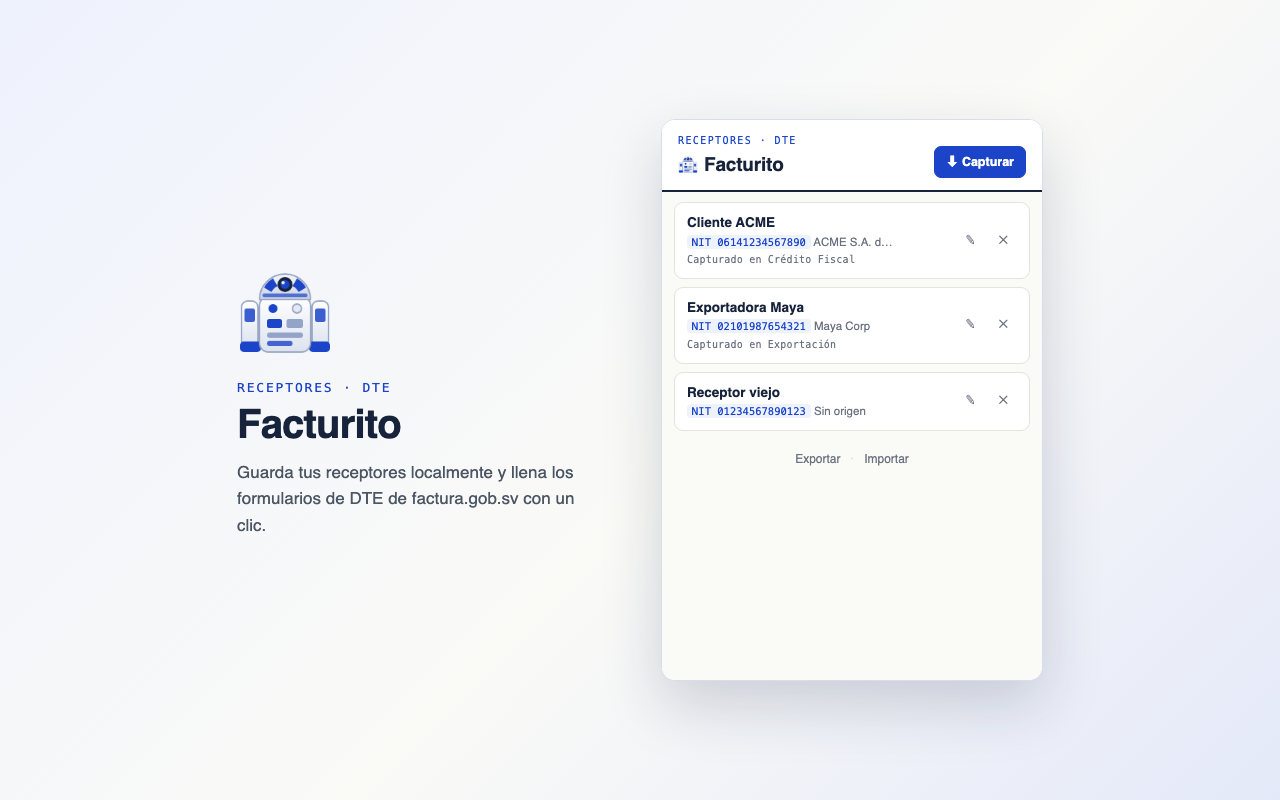
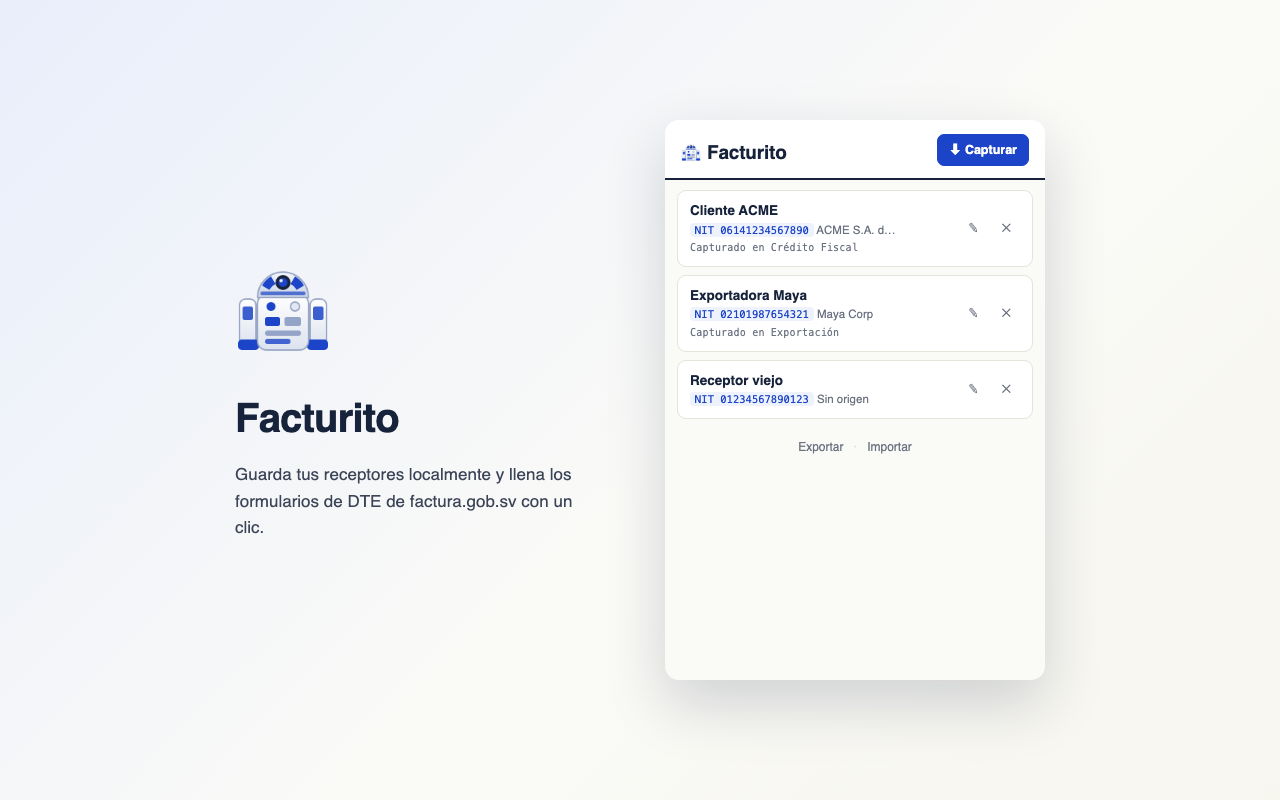
Simplify popup header and refresh store assets
Remove the eyebrow label from the popup, update the store zip and
screenshots, and add the HTML generators for the store screenshots.

diff --git a/store/screenshots/gen-02-editor.html b/store/screenshots/gen-02-editor.html
@@ -1,0 +1,103 @@
+<!DOCTYPE html>
+<!-- Generador de la captura 02-editor.png (1280x800) para la Chrome Web Store.
+     Renderizar con:
+       chrome --headless --window-size=1280,800 --screenshot=02-editor.png gen-02-editor.html -->
+<html lang="es">
+<head>
+  <meta charset="UTF-8" />
+  <link rel="stylesheet" href="../../receptor-extension/popup.css" />
+  <style>
+    html, body { width: 1280px; height: 800px; overflow: hidden; }
+    body {
+      display: flex; align-items: center; justify-content: center; gap: 80px;
+      background: linear-gradient(135deg, #e9eefb 0%, #fafaf7 55%, #f7f6ef 100%);
+    }
+    .pitch { width: 340px; }
+    .pitch img { width: 96px; height: 96px; margin-bottom: 28px; }
+    .pitch h1 { font-size: 40px; letter-spacing: -0.02em; margin-bottom: 14px; }
+    .pitch p { font-size: 17px; line-height: 1.55; color: #3c4557; }
+    .popup {
+      width: 540px; position: relative;
+      background: var(--paper); border-radius: 14px; overflow: hidden;
+      box-shadow: 0 24px 60px rgba(22, 35, 59, 0.18);
+    }
+    /* el editor es position:fixed dentro del popup real; aquí vive en la tarjeta */
+    .popup .editor { position: static; }
+  </style>
+</head>
+<body>
+  <div class="pitch">
+    <img src="../../receptor-extension/icons/icon128.png" alt="" />
+    <h1>Facturito</h1>
+    <p>Guarda tus receptores localmente y llena los formularios de DTE de factura.gob.sv con un clic.</p>
+  </div>
+
+  <div class="popup">
+    <div class="editor">
+      <div class="eyebrow">Nuevo receptor</div>
+      <h2>Datos del receptor</h2>
+      <form>
+        <label class="full">Alias <span class="hint">— nombre para la lista</span>
+          <input value="ACME S.A. de C.V." style="border-color: var(--cobalt); box-shadow: 0 0 0 3px var(--cobalt-soft);" />
+        </label>
+
+        <div class="row">
+          <label>Tipo de documento
+            <select><option>NIT</option></select>
+          </label>
+          <label>Número de documento
+            <input class="mono" value="06140000000000" />
+          </label>
+          <label>NRC <span class="hint">— solo números</span>
+            <input class="mono" value="1234567" />
+          </label>
+        </div>
+
+        <label class="full">Nombre del cliente
+          <input value="ACME S.A. de C.V." />
+        </label>
+
+        <label class="full">Nombre comercial
+          <input value="" />
+        </label>
+
+        <label class="full">Actividad económica <span class="hint">— texto tal como aparece en la lista del sitio</span>
+          <input value="" />
+        </label>
+
+        <label class="full">Actividad económica (texto libre) <span class="hint">— Exportación y Sujeto Excluido</span>
+          <input value="Servicios informáticos" />
+        </label>
+
+        <div class="row">
+          <label>Tipo de persona <span class="hint">— Exportación</span>
+            <select><option>Jurídica</option></select>
+          </label>
+          <label>País <span class="hint">— Exportación</span>
+            <input value="GUATEMALA" />
+          </label>
+        </div>
+
+        <fieldset class="location">
+          <legend>Ubicación <span class="hint">— código y nombre; se llenan solos al capturar</span></legend>
+          <div class="loc-row">
+            <span class="loc-label">Departamento</span>
+            <input class="mono code" value="06" />
+            <input value="SAN SALVADOR" />
+          </div>
+          <div class="loc-row">
+            <span class="loc-label">Municipio</span>
+            <input class="mono code" value="23" />
+            <input value="SAN SALVADOR CENTRO" />
+          </div>
+          <div class="loc-row">
+            <span class="loc-label">Distrito</span>
+            <input class="mono code" value="14" />
+            <input value="SAN SALVADOR" />
+          </div>
+        </fieldset>
+      </form>
+    </div>
+  </div>
+</body>
+</html>

diff --git a/store/screenshots/gen-01-lista.html b/store/screenshots/gen-01-lista.html
@@ -1,0 +1,80 @@
+<!DOCTYPE html>
+<!-- Generador de la captura 01-lista.png (1280x800) para la Chrome Web Store.
+     Renderizar con:
+       chrome --headless --window-size=1280,800 --screenshot=01-lista.png gen-01-lista.html -->
+<html lang="es">
+<head>
+  <meta charset="UTF-8" />
+  <link rel="stylesheet" href="../../receptor-extension/popup.css" />
+  <style>
+    html, body { width: 1280px; height: 800px; overflow: hidden; }
+    body {
+      display: flex; align-items: center; justify-content: center; gap: 90px;
+      background: linear-gradient(135deg, #e9eefb 0%, #fafaf7 55%, #f7f6ef 100%);
+    }
+    .pitch { width: 340px; }
+    .pitch img { width: 96px; height: 96px; margin-bottom: 28px; }
+    .pitch h1 { font-size: 40px; letter-spacing: -0.02em; margin-bottom: 14px; }
+    .pitch p { font-size: 17px; line-height: 1.55; color: #3c4557; }
+    .popup {
+      width: 380px; min-height: 560px;
+      background: var(--paper); border-radius: 14px; overflow: hidden;
+      box-shadow: 0 24px 60px rgba(22, 35, 59, 0.18);
+    }
+    .popup header { border-radius: 0; }
+  </style>
+</head>
+<body>
+  <div class="pitch">
+    <img src="../../receptor-extension/icons/icon128.png" alt="" />
+    <h1>Facturito</h1>
+    <p>Guarda tus receptores localmente y llena los formularios de DTE de factura.gob.sv con un clic.</p>
+  </div>
+
+  <div class="popup">
+    <header>
+      <div>
+        <h1><img src="../../receptor-extension/icons/icon32.png" alt="" class="logo" /> Facturito</h1>
+      </div>
+      <div class="header-actions">
+        <button class="primary">⬇ Capturar</button>
+      </div>
+    </header>
+
+    <ul id="list">
+      <li>
+        <div class="item-main">
+          <div class="item-alias">Cliente ACME</div>
+          <div class="item-sub"><span class="mono-chip">NIT 06141234567890</span> ACME S.A. d…</div>
+          <div class="item-loc">Capturado en Crédito Fiscal</div>
+        </div>
+        <button class="item-btn">✎</button>
+        <button class="item-btn danger">✕</button>
+      </li>
+      <li>
+        <div class="item-main">
+          <div class="item-alias">Exportadora Maya</div>
+          <div class="item-sub"><span class="mono-chip">NIT 02101987654321</span> Maya Corp</div>
+          <div class="item-loc">Capturado en Exportación</div>
+        </div>
+        <button class="item-btn">✎</button>
+        <button class="item-btn danger">✕</button>
+      </li>
+      <li>
+        <div class="item-main">
+          <div class="item-alias">Receptor viejo</div>
+          <div class="item-sub"><span class="mono-chip">NIT 01234567890123</span> Sin origen</div>
+        </div>
+        <button class="item-btn">✎</button>
+        <button class="item-btn danger">✕</button>
+      </li>
+    </ul>
+
+    <footer>
+      <button class="link">Exportar</button>
+      <span class="dot">·</span>
+      <button class="link">Importar</button>
+    </footer>
+  </div>
+</body>
+</html>

diff --git a/receptor-extension/popup.html b/receptor-extension/popup.html
@@ -8,7 +8,6 @@
 <body>
   <header>
     <div>
-      <div class="eyebrow">Receptores · DTE</div>
       <h1><img src="icons/icon32.png" alt="" class="logo" /> Facturito</h1>
     </div>
     <div class="header-actions">
